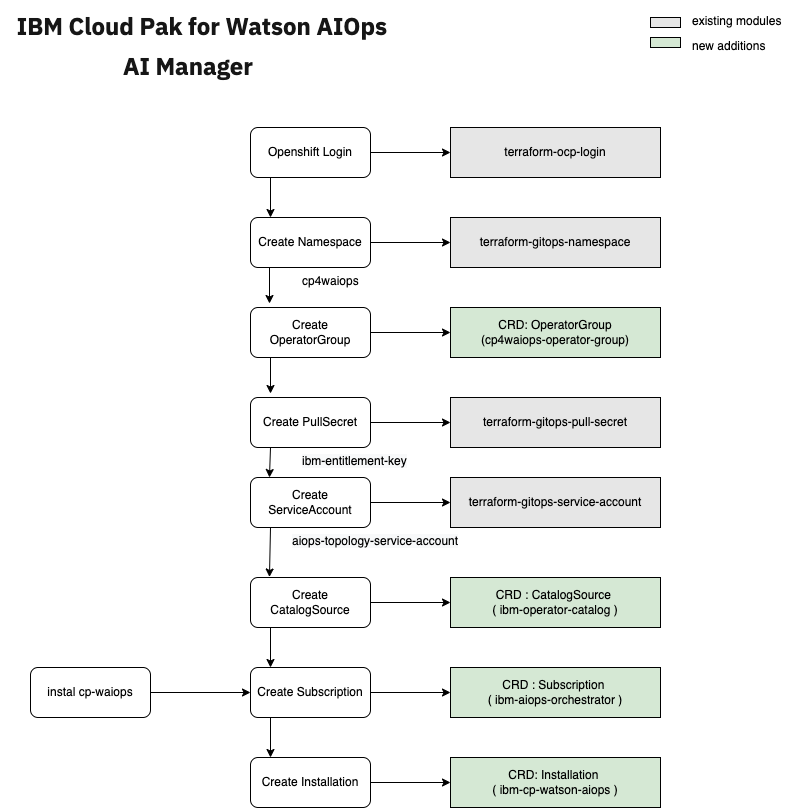
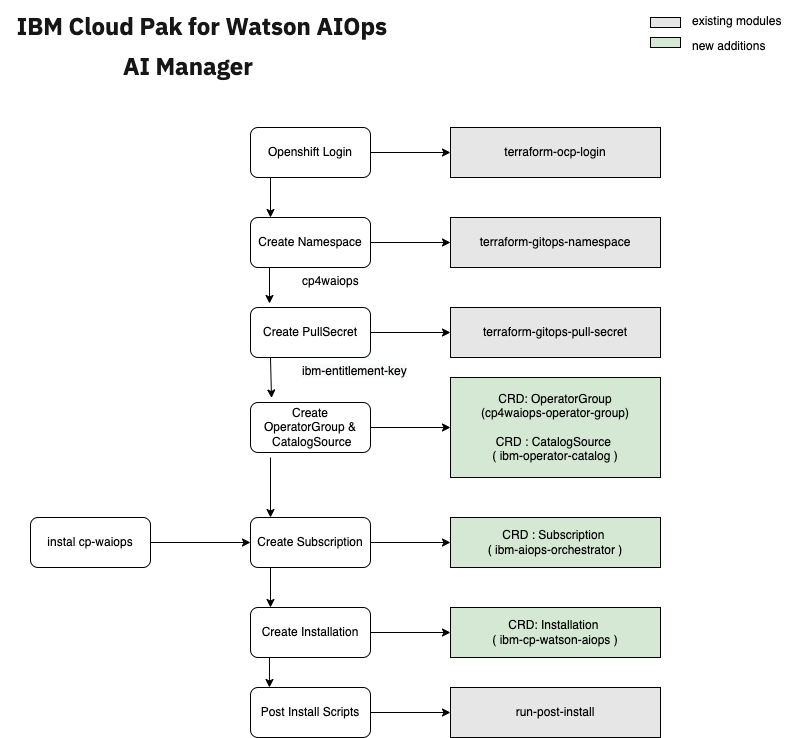
v3.3

diff --git a/README.md b/README.md
@@ -24,7 +24,6 @@ This module makes use of the output from other modules:
 - GitOps - https://github.com/cloud-native-toolkit/terraform-util-gitops-bootstrap
 - GitOps - https://github.com/cloud-native-toolkit/terraform-tools-gitops
 - Namespace - https://github.com/cloud-native-toolkit/terraform-gitops-namespace
-- CP Catlog - https://github.com/cloud-native-toolkit/terraform-gitops-cp-catalogs
 - etc
 
 
@@ -41,9 +40,9 @@ module "ibm-cp-waiops" {
   server_name = module.gitops.server_name
   namespace = module.gitops_namespace.name
   kubeseal_cert = module.gitops.sealed_secrets_cert
-  entitlement_key = var.cp_entitlement_key
-  pullsecret_name = var.pullsecret_name
-
+  entitlement_key = var.entitlement_key
+  cp_waiops_storageClass = var.cp_waiops_storageClass
+  cp_waiops_storageClassLargeBlock = var.cp_waiops_storageClassLargeBlock
 }
 ```
 
